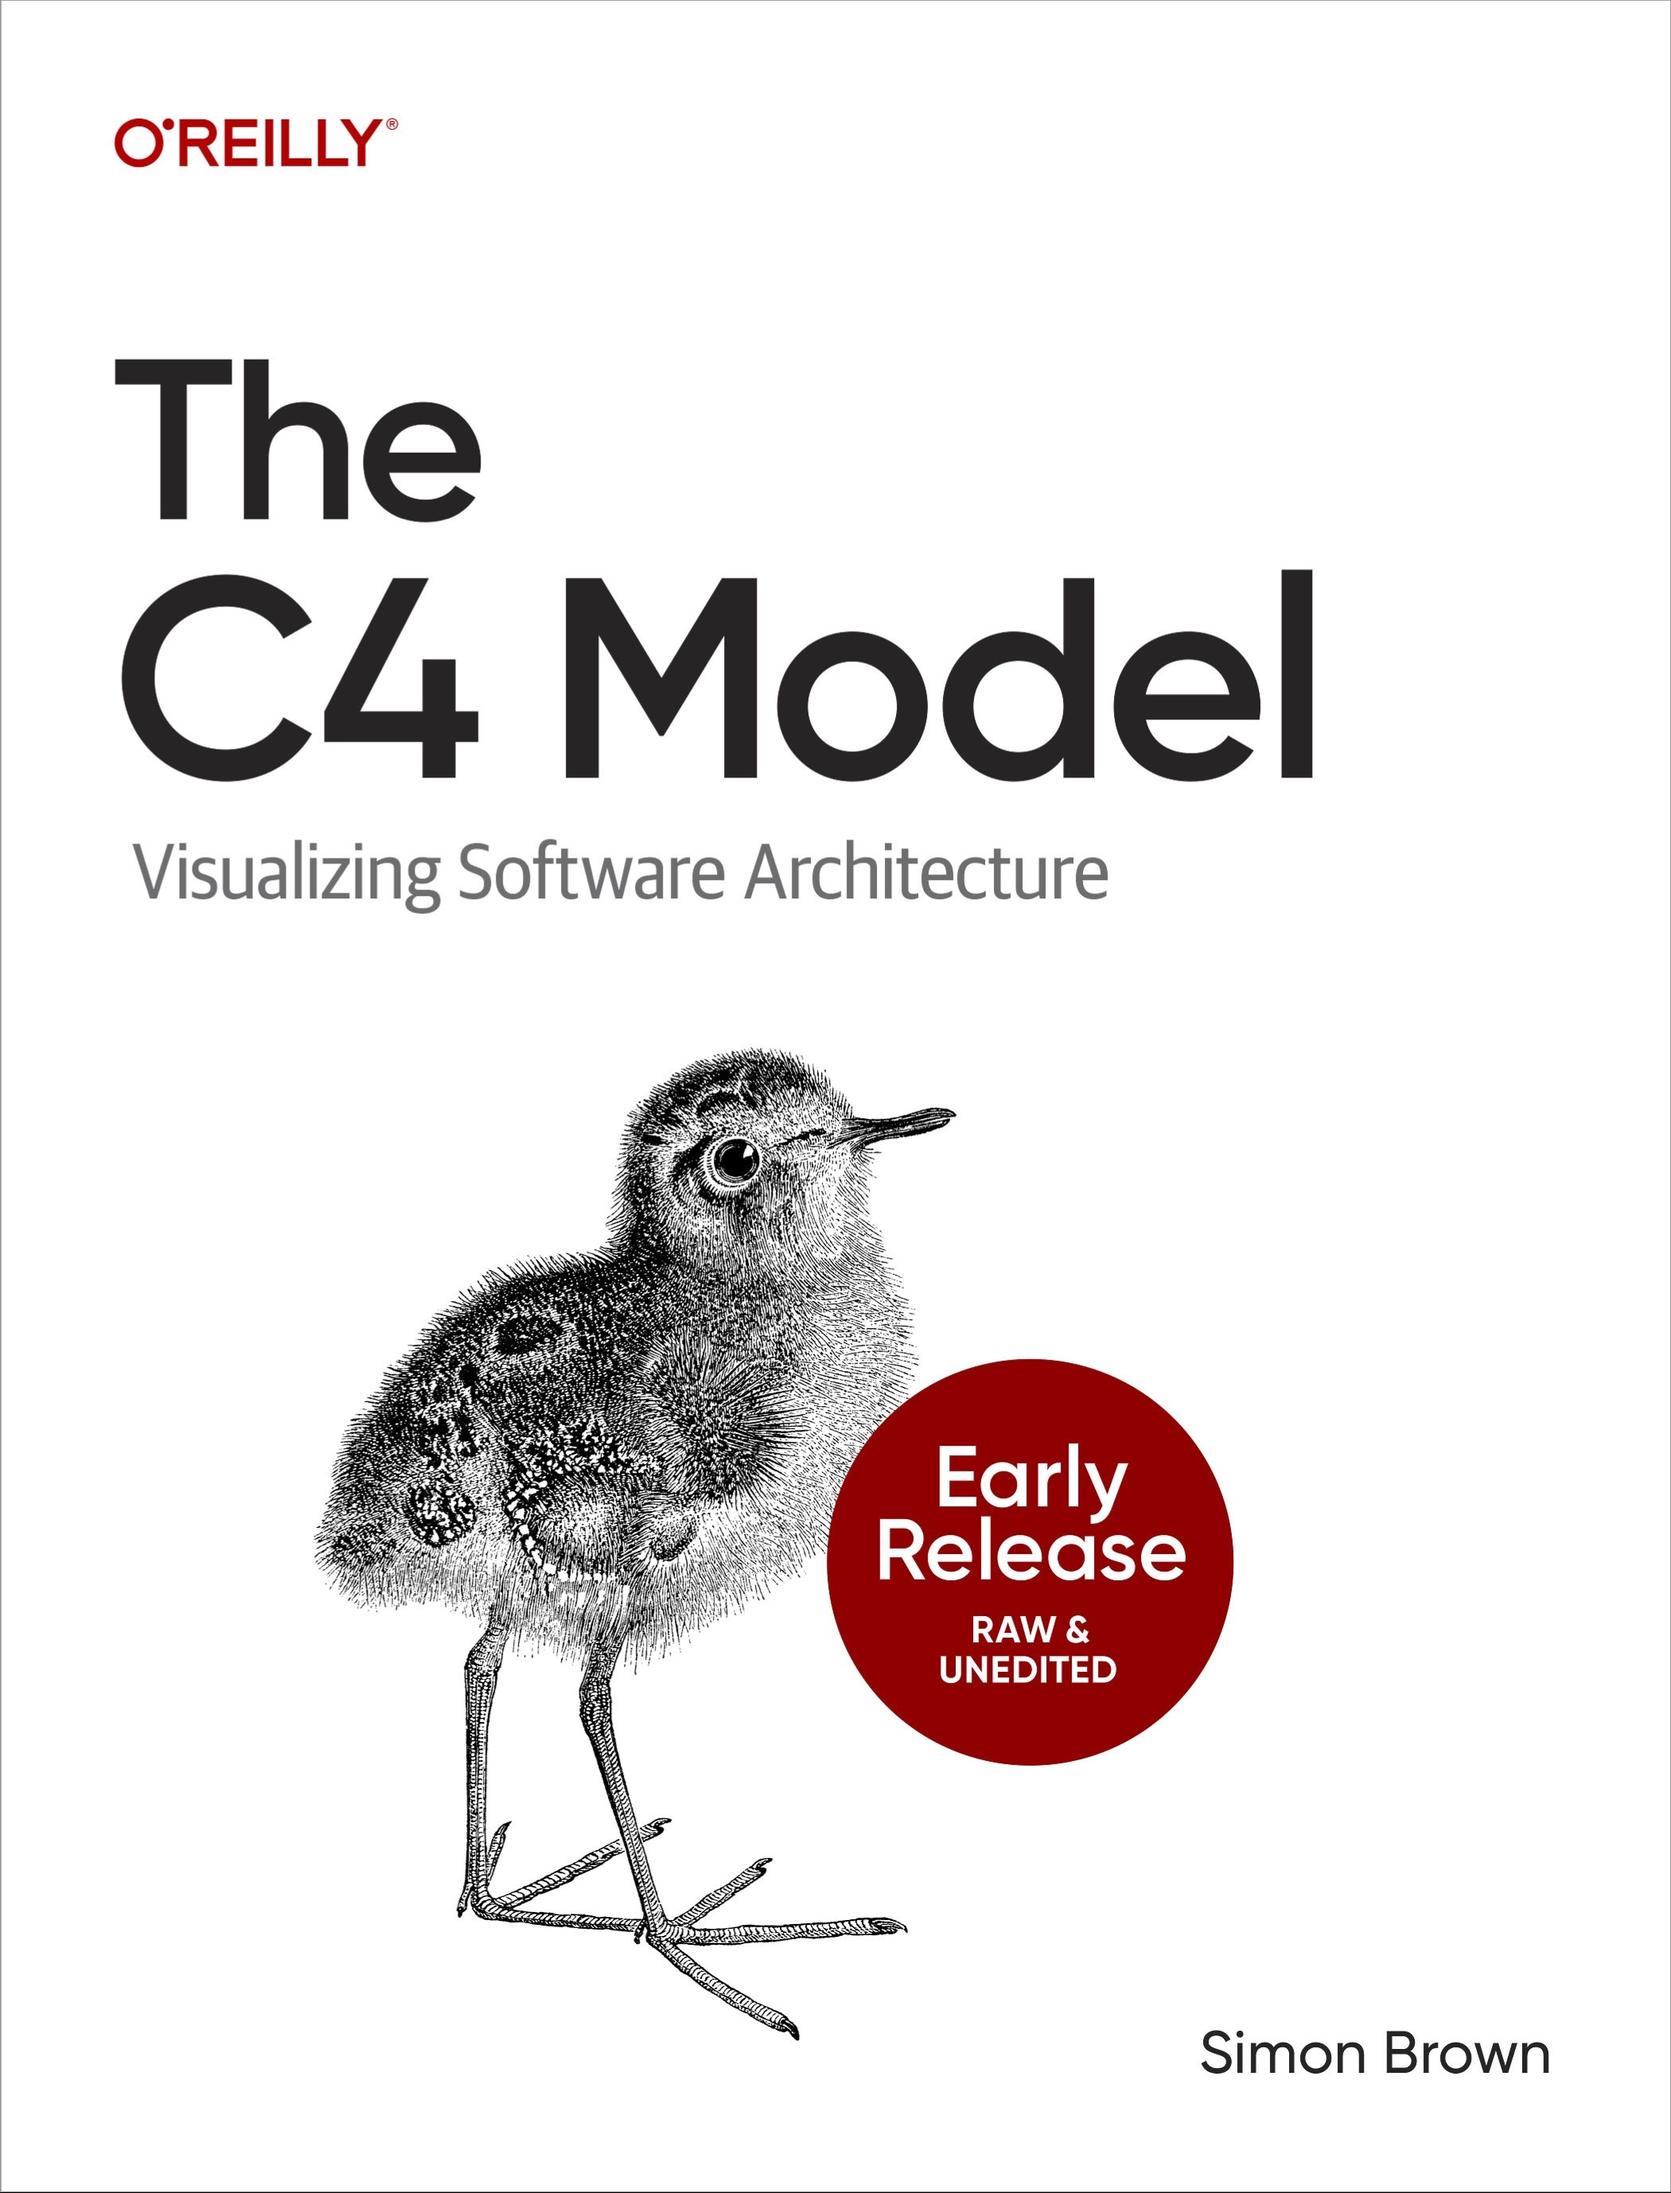
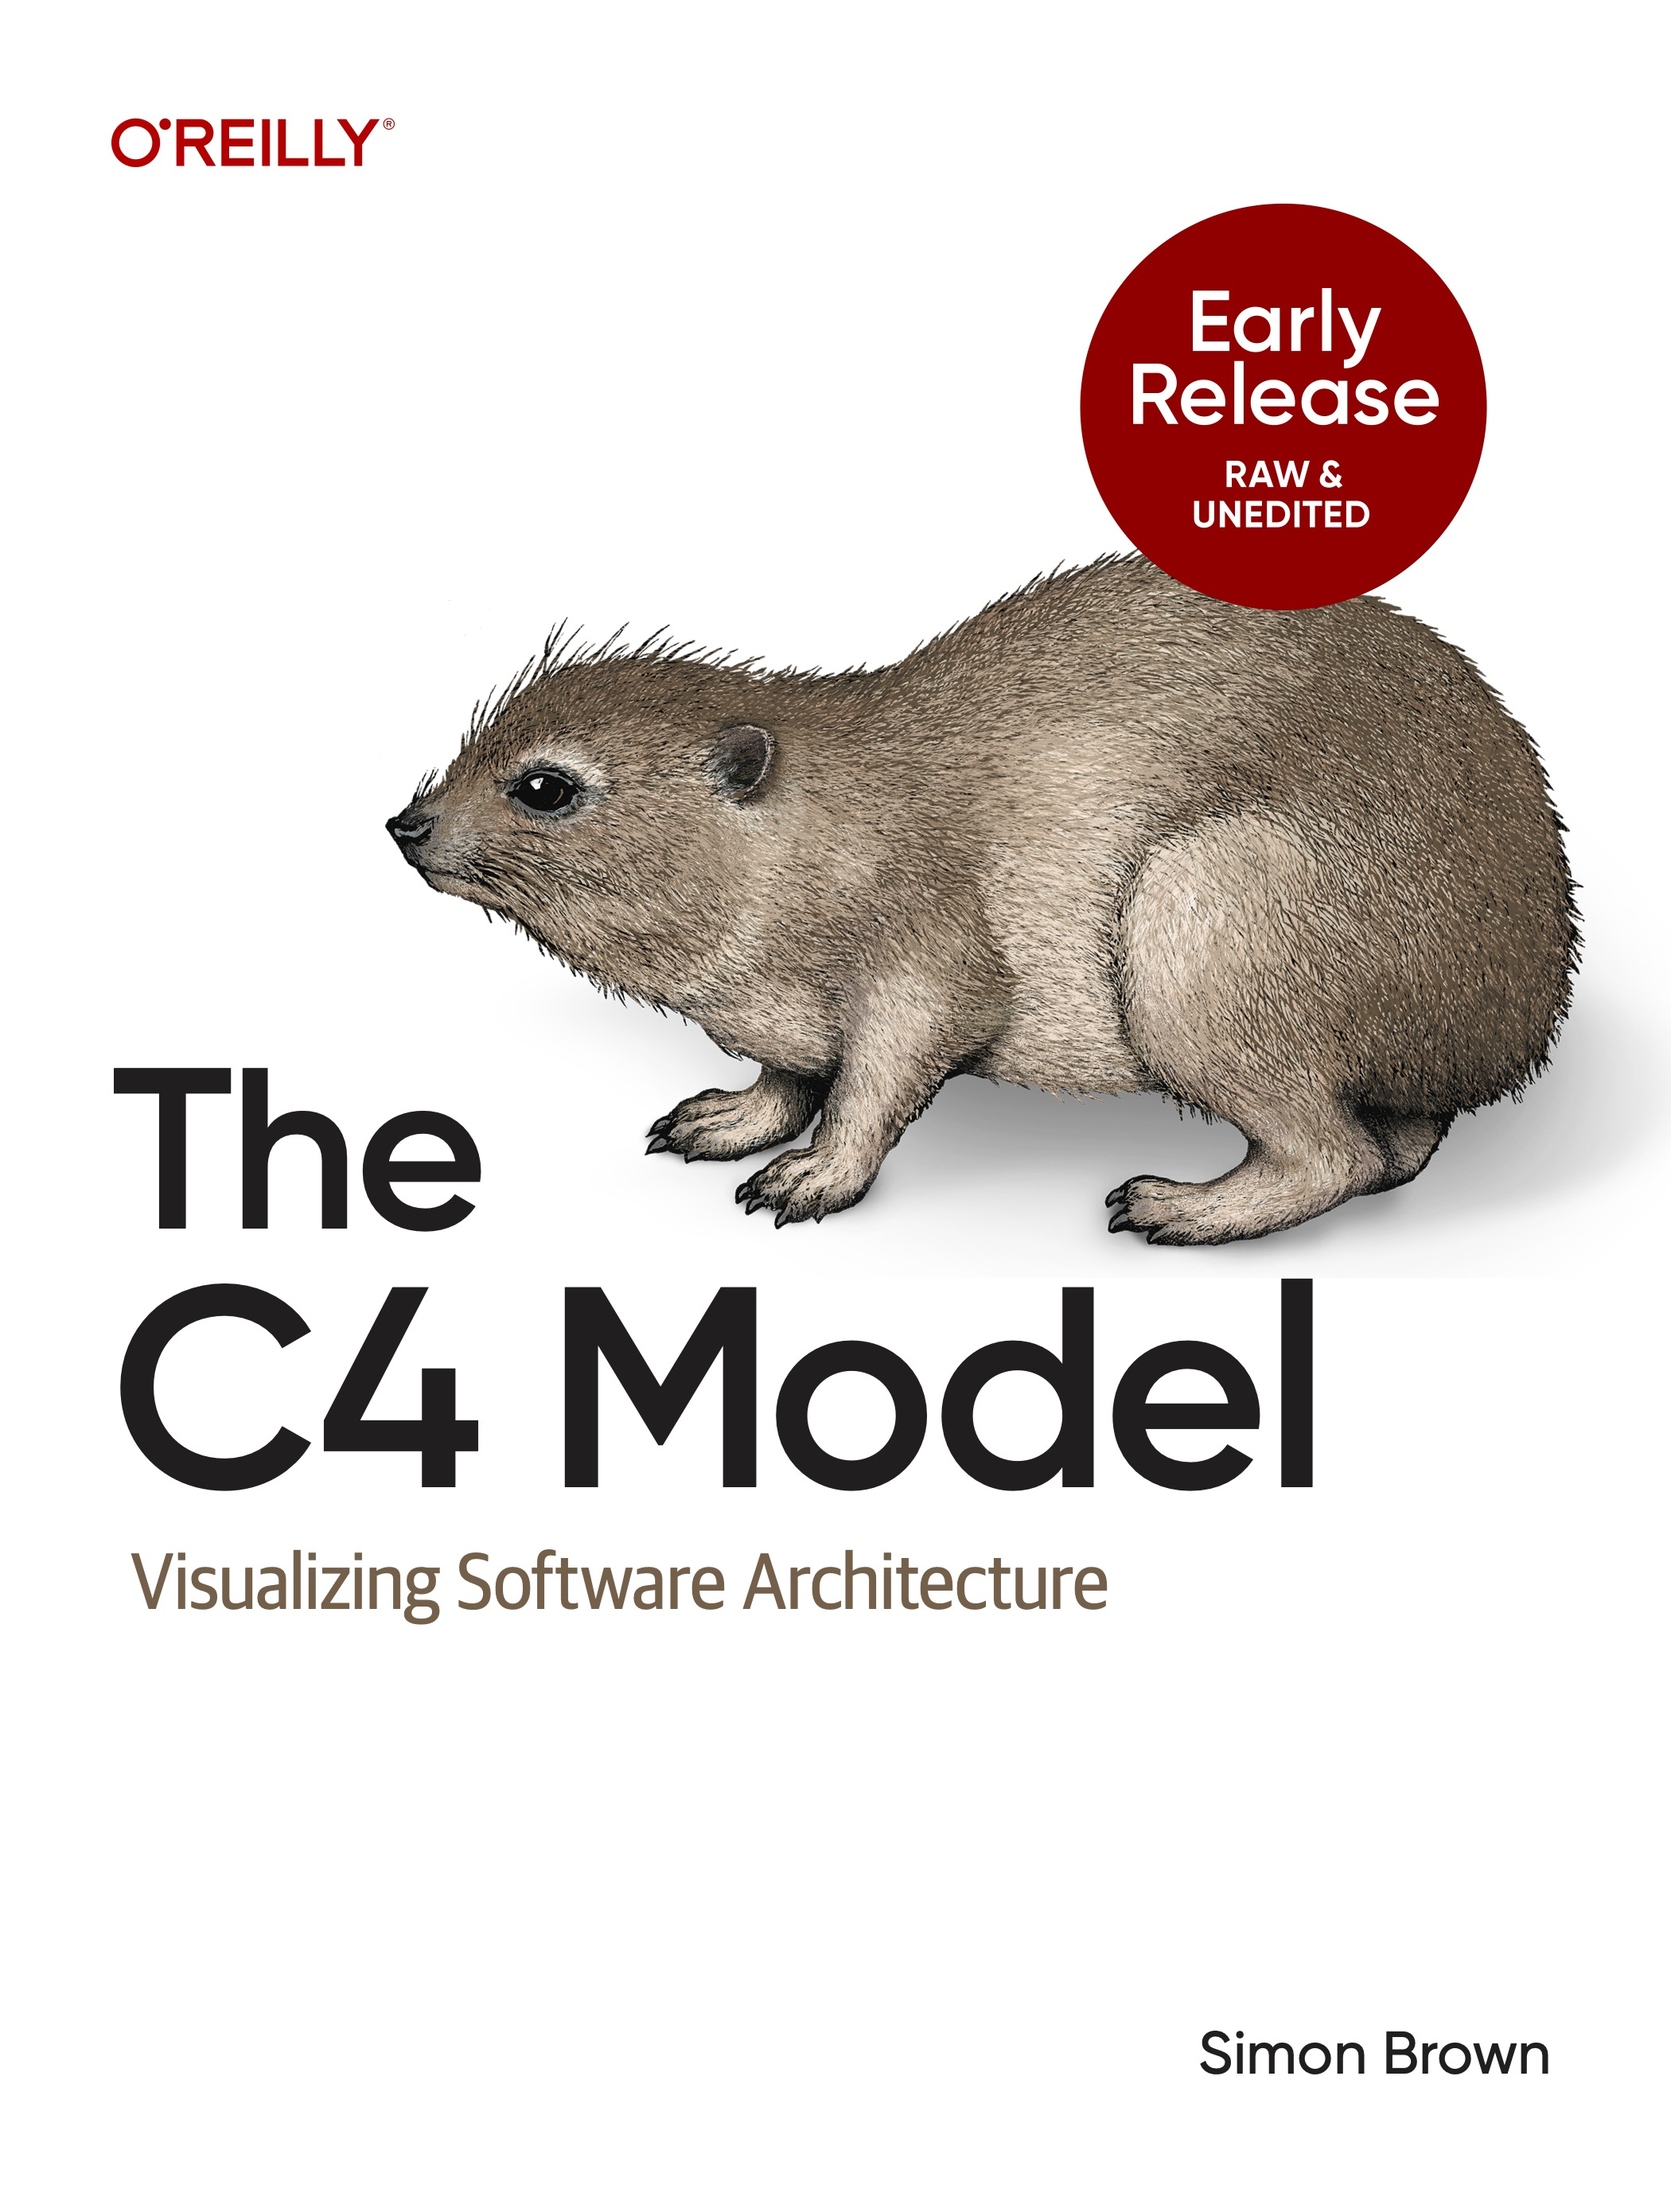
Updated book cover.

diff --git a/index.html b/index.html
@@ -39,7 +39,7 @@
 
                 <div class="centered">
                     <div style="margin-top: 40px; max-width: 400px; margin-left: auto; margin-right: auto;">
-                        <a href="https://www.oreilly.com/library/view/the-c4-model/9798341660113/" target="_blank"><img src="./img/c4-model-book.jpg" alt="The C4 model" class="img-responsive" /></a>
+                        <a href="https://www.oreilly.com/library/view/the-c4-model/9798341660113/" target="_blank"><img src="./img/c4-model-book.jpg" alt="The C4 model" class="img-responsive" style="border: solid 1px black" /></a>
                     </div>
                 </div>
             </div>
